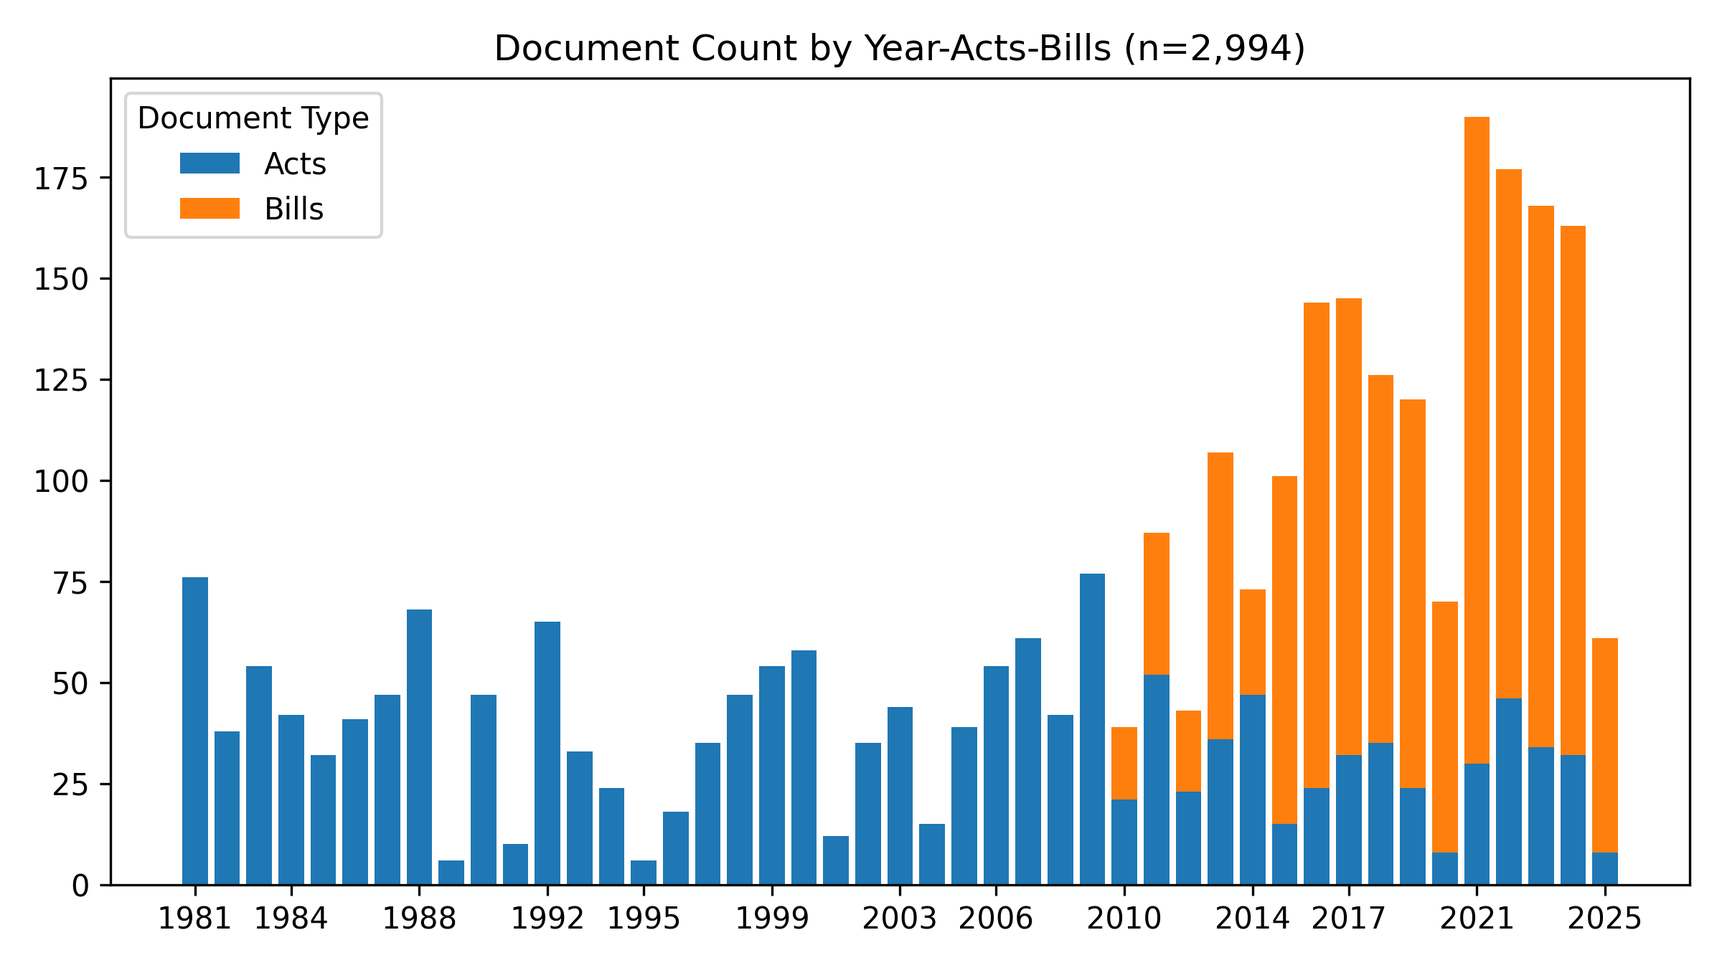
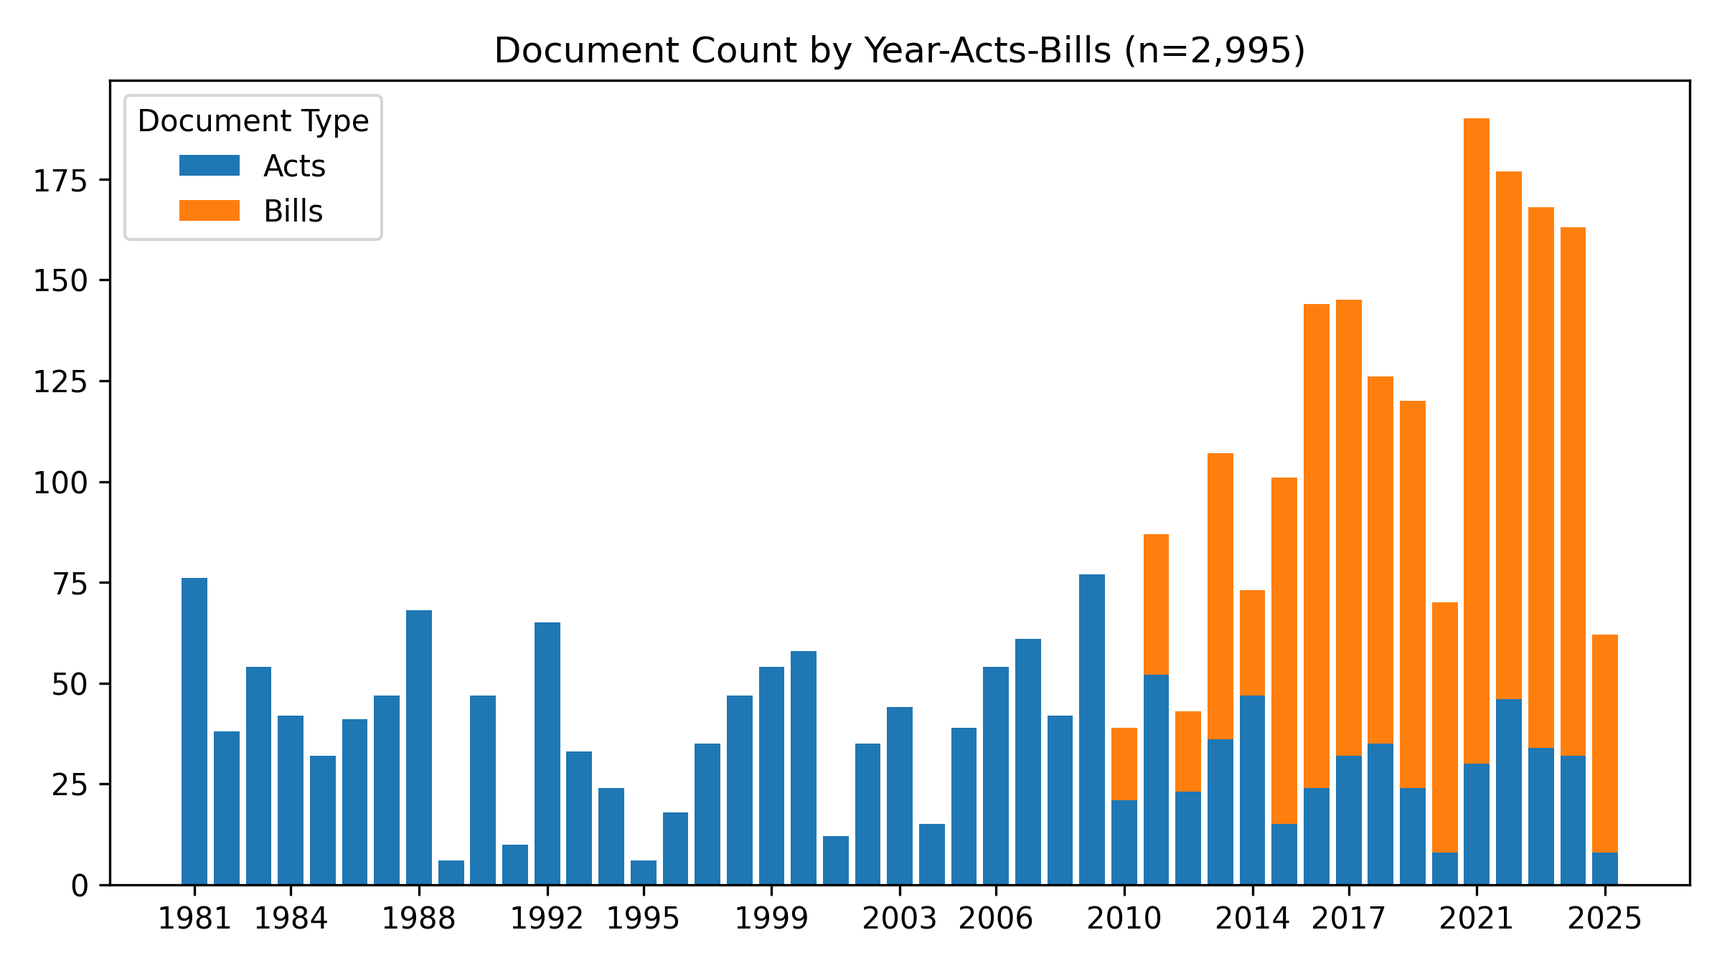
🤖 [pdf_downloader.yml] 2025-07-08-1327

diff --git a/README.md b/README.md
@@ -1,8 +1,8 @@
 # Legal Documents - #SriLanka 🇱🇰
 
-*Last Updated **2025-07-08 18:31:56**.*
+*Last Updated **2025-07-08 18:57:03**.*
 
-**43,961** documents (59.2 MB), from 1981-01-22 to 2025-07-07.
+**43,962** documents (40.9 MB), from 1981-01-22 to 2025-07-08.
 
 A collection of 📢 Gazettes, 🚨 Extraordinary Gazettes, 🏛 Acts, ✍ Bills and more,  from [documents.gov.lk](https://documents.gov.lk).
 
@@ -20,8 +20,8 @@ A collection of 📢 Gazettes, 🚨 Extraordinary Gazettes, 🏛 Acts, ✍
 
 | doc_type | n | min_date | max_date |
 | :-- | --: | :-- | :-- |
+| ✍ Bills | 1,348 | 2010-05-10 | 2025-07-08 |
 | 🚨 Extraordinary Gazettes | 34,700 | 2010-01-01 | 2025-07-07 |
-| ✍ Bills | 1,347 | 2010-05-10 | 2025-07-04 |
 | 📢 Gazettes | 6,267 | 2006-03-03 | 2025-07-04 |
 | 🏛 Acts | 1,647 | 1981-01-22 | 2025-06-20 |
 
@@ -39,6 +39,7 @@ A collection of 📢 Gazettes, 🚨 Extraordinary Gazettes, 🏛 Acts, ✍
 
 | type | date | title | sources | doc_num |
 | :-- | :-- | :-- | :-- | :-- |
+| ✍ | 2025-07-08 | Penal Code Amendment GS | [`සි`](https://documents.gov.lk/view/bills/2025/7/618-2025_S.pdf) [`த`](https://documents.gov.lk/view/bills/2025/7/618-2025_T.pdf) [`E`](https://documents.gov.lk/view/bills/2025/7/618-2025_E.pdf) | [618/2025](data/bills/2025/618-2025) |
 | 🚨 | 2025-07-07 | Presidential Secretariat Appointed Secretary to the Ministry Finance Planning and Economic Development | [`සි`](https://documents.gov.lk/view/extra-gazettes/2025/7/2444-09_S.pdf) [`E`](https://documents.gov.lk/view/extra-gazettes/2025/7/2444-09_E.pdf) | [2444/09](data/extra-gazettes/2025/2444-09) |
 | 🚨 | 2025-07-07 | Elections Commission Declare Elected as a Member of Parliament under Article 99A of the Constitution Elected Mr UDN Jayaweera as a Member of the Tenth Parliament | [`සි`](https://documents.gov.lk/view/extra-gazettes/2025/7/2444-07_S.pdf) | [2444/07](data/extra-gazettes/2025/2444-07) |
 | 🚨 | 2025-07-07 | Election Commission Local Authorities Elections Ordinance Chapter 262 Notice under Section 66 2 Elected to the Members of Akmeemana PS and Bandarawela PS | [`සි`](https://documents.gov.lk/view/extra-gazettes/2025/7/2444-02_S.pdf) [`த`](https://documents.gov.lk/view/extra-gazettes/2025/7/2444-02_T.pdf) [`E`](https://documents.gov.lk/view/extra-gazettes/2025/7/2444-02_E.pdf) | [2444/02](data/extra-gazettes/2025/2444-02) |
@@ -68,45 +69,44 @@ A collection of 📢 Gazettes, 🚨 Extraordinary Gazettes, 🏛 Acts, ✍
 | 🚨 | 2025-06-30 | Ministry of Health Food Act No26 of 1980 Amended the Food Colour Coding for Suger Levels liquid Regulation 2022 | [`සි`](https://documents.gov.lk/view/extra-gazettes/2025/6/2443-08_S.pdf) [`த`](https://documents.gov.lk/view/extra-gazettes/2025/6/2443-08_T.pdf) [`E`](https://documents.gov.lk/view/extra-gazettes/2025/6/2443-08_E.pdf) | [2443/08](data/extra-gazettes/2025/2443-08) |
 | 🚨 | 2025-06-30 | Ministry of Health Food Act No26 of 1980 Amended the Food Frans Fat Regulation 2022 | [`සි`](https://documents.gov.lk/view/extra-gazettes/2025/6/2443-07_S.pdf) [`த`](https://documents.gov.lk/view/extra-gazettes/2025/6/2443-07_T.pdf) [`E`](https://documents.gov.lk/view/extra-gazettes/2025/6/2443-07_E.pdf) | [2443/07](data/extra-gazettes/2025/2443-07) |
 | 🚨 | 2025-06-30 | Ministry of Health Food Act No26 of 1980 Amended the Food labelling and Advertising Regulations 2023 | [`සි`](https://documents.gov.lk/view/extra-gazettes/2025/6/2443-06_S.pdf) [`த`](https://documents.gov.lk/view/extra-gazettes/2025/6/2443-06_T.pdf) [`E`](https://documents.gov.lk/view/extra-gazettes/2025/6/2443-06_E.pdf) | [2443/06](data/extra-gazettes/2025/2443-06) |
-| 🚨 | 2025-06-30 | Sri Lanka Customs Rate Of Exchange with Effect from 30062025 to 06072025 | [`සි`](https://documents.gov.lk/view/extra-gazettes/2025/6/2443-01_S.pdf) [`த`](https://documents.gov.lk/view/extra-gazettes/2025/6/2443-01_T.pdf) [`E`](https://documents.gov.lk/view/extra-gazettes/2025/6/2443-01_E.pdf) | [2443/01](data/extra-gazettes/2025/2443-01) |
 
 ## All Documents
 
 | type | date | title | sources | doc_num |
 | :-- | :-- | :-- | :-- | :-- |
-| 🚨 | 2025-07-07 | Presidential Secretariat Appointed Secretary to the Ministry Finance Planning and Economic Development | [`සි`](https://documents.gov.lk/view/extra-gazettes/2025/7/2444-09_S.pdf) [`E`](https://documents.gov.lk/view/extra-gazettes/2025/7/2444-09_E.pdf) | [2444/09](data/extra-gazettes/2025/2444-09) |
-| 🚨 | 2025-01-16 | Land Title Settlement Department Udappu Mundel DS Division Puttalama District Cad Map No 410228 240995 | [`සි`](https://documents.gov.lk/view/extra-gazettes/2025/1/2419-16_S.pdf) [`த`](https://documents.gov.lk/view/extra-gazettes/2025/1/2419-16_T.pdf) [`E`](https://documents.gov.lk/view/extra-gazettes/2025/1/2419-16_E.pdf) | [2419/16](data/extra-gazettes/2025/2419-16) |
-| ✍ | 2024-08-02 | Public Assets Management GS | [`සි`](https://documents.gov.lk/view/bills/2024/8/539-2004_S.pdf) [`த`](https://documents.gov.lk/view/bills/2024/8/539-2004_T.pdf) [`E`](https://documents.gov.lk/view/bills/2024/8/539-2004_E.pdf) | [539/2004](data/bills/2024/539-2004) |
-| 🚨 | 2024-02-06 | Presidential Secretariat Hon Keheliya Rambukwella Minister of Environment has Resigned Office of the Minister of Environment with Effect from 03022024 | [`සි`](https://documents.gov.lk/view/extra-gazettes/2024/2/2370-06_S.pdf) [`த`](https://documents.gov.lk/view/extra-gazettes/2024/2/2370-06_T.pdf) [`E`](https://documents.gov.lk/view/extra-gazettes/2024/2/2370-06_E.pdf) | [2370/06](data/extra-gazettes/2024/2370-06) |
-| 🚨 | 2023-09-14 | Land Title Settlement Department Ethyala Ganga Ihala Korale DS Division Kandy District Cad Map No 320740 230594 | [`සි`](https://documents.gov.lk/view/extra-gazettes/2023/9/2349-25_S.pdf) [`த`](https://documents.gov.lk/view/extra-gazettes/2023/9/2349-25_T.pdf) [`E`](https://documents.gov.lk/view/extra-gazettes/2023/9/2349-25_E.pdf) | [2349/25](data/extra-gazettes/2023/2349-25) |
-| 🚨 | 2023-04-03 | Land Title Settlement Department Dutugemunu Dehiwala DS Division Colombo District Cad Map No 520802 2355012 | [`සි`](https://documents.gov.lk/view/extra-gazettes/2023/4/2326-08_S.pdf) [`த`](https://documents.gov.lk/view/extra-gazettes/2023/4/2326-08_T.pdf) [`E`](https://documents.gov.lk/view/extra-gazettes/2023/4/2326-08_E.pdf) | [2326/08](data/extra-gazettes/2023/2326-08) |
-| 🚨 | 2022-11-25 | Kalpitiya Pradeshiya Sabha List of the Roads and Throughfares of Kalpitiya Pradeshiya Sabha | [`සි`](https://documents.gov.lk/view/extra-gazettes/2022/11/2307-53_S.pdf) [`த`](https://documents.gov.lk/view/extra-gazettes/2022/11/2307-53_T.pdf) [`E`](https://documents.gov.lk/view/extra-gazettes/2022/11/2307-53_E.pdf) | [2307/53](data/extra-gazettes/2022/2307-53) |
-| 🚨 | 2022-07-14 | Secretariat Office of Prime Minister Amended Extraordinary Gazette No 228141 Dated 27052022 Duties and Functions of the Defence Minister Further Amended 14th 072022 | [`සි`](https://documents.gov.lk/view/extra-gazettes/2022/7/2288-24_S.pdf) [`த`](https://documents.gov.lk/view/extra-gazettes/2022/7/2288-24_T.pdf) [`E`](https://documents.gov.lk/view/extra-gazettes/2022/7/2288-24_E.pdf) | [2288/24](data/extra-gazettes/2022/2288-24) |
-| 🚨 | 2022-02-03 | Election Commission Mr K G D Chandrarathna of the Sri Jayawardanapura Kotte Municipal Council has vacated his office of member of that Municipal Council | [`සි`](https://documents.gov.lk/view/extra-gazettes/2022/2/2265-41_S.pdf) [`த`](https://documents.gov.lk/view/extra-gazettes/2022/2/2265-41_T.pdf) [`E`](https://documents.gov.lk/view/extra-gazettes/2022/2/2265-41_E.pdf) | [2265/41](data/extra-gazettes/2022/2265-41) |
-| 🚨 | 2021-09-10 | Department of Local Government Northern Province Notify to Convene the meeting again for the election of Chairman of Valvettithurai Urban Council in Norther Province On 22092021 at 1000 am at the Hall of the Valvettithurai Urban Council | [`සි`](https://documents.gov.lk/view/extra-gazettes/2021/9/2244-33_S.pdf) [`த`](https://documents.gov.lk/view/extra-gazettes/2021/9/2244-33_T.pdf) [`E`](https://documents.gov.lk/view/extra-gazettes/2021/9/2244-33_E.pdf) | [2244/33](data/extra-gazettes/2021/2244-33) |
-| 🚨 | 2021-03-09 | Land Title Settlement Department Kimbissa Dambulla DS Division Matale District Cad Map No 310060 | [`සි`](https://documents.gov.lk/view/extra-gazettes/2021/3/2218-45_S.pdf) [`த`](https://documents.gov.lk/view/extra-gazettes/2021/3/2218-45_T.pdf) [`E`](https://documents.gov.lk/view/extra-gazettes/2021/3/2218-45_E.pdf) | [2218/45](data/extra-gazettes/2021/2218-45) |
+| ✍ | 2025-07-08 | Penal Code Amendment GS | [`සි`](https://documents.gov.lk/view/bills/2025/7/618-2025_S.pdf) [`த`](https://documents.gov.lk/view/bills/2025/7/618-2025_T.pdf) [`E`](https://documents.gov.lk/view/bills/2025/7/618-2025_E.pdf) | [618/2025](data/bills/2025/618-2025) |
+| 🚨 | 2025-01-16 | Land Title Settlement Department Paluwewa Hingurakgoda DS Division Polonnaruwa District Cad Map No 120017 240452 | [`සි`](https://documents.gov.lk/view/extra-gazettes/2025/1/2419-17_S.pdf) [`த`](https://documents.gov.lk/view/extra-gazettes/2025/1/2419-17_T.pdf) [`E`](https://documents.gov.lk/view/extra-gazettes/2025/1/2419-17_E.pdf) | [2419/17](data/extra-gazettes/2025/2419-17) |
+| 🚨 | 2024-08-03 | Land Title Settlement Department Mallawapitiya Mallawapitiya DSDivision Kurunegala District Cad Map No 420206 | [`සි`](https://documents.gov.lk/view/extra-gazettes/2024/8/2395-48_S.pdf) [`த`](https://documents.gov.lk/view/extra-gazettes/2024/8/2395-48_T.pdf) [`E`](https://documents.gov.lk/view/extra-gazettes/2024/8/2395-48_E.pdf) | [2395/48](data/extra-gazettes/2024/2395-48) |
+| 🚨 | 2024-02-06 | Presidential Secretariat Appointed Hon Shashindra Rajapaksa Member of Parliament as the State Minister of Irrigation and Water Supply from 31012024 Hon Shashindra Rajapaksa State Minister of Irrigation has Resigned Office of the State Minister with Effe... | [`සි`](https://documents.gov.lk/view/extra-gazettes/2024/2/2370-07_S.pdf) [`த`](https://documents.gov.lk/view/extra-gazettes/2024/2/2370-07_T.pdf) [`E`](https://documents.gov.lk/view/extra-gazettes/2024/2/2370-07_E.pdf) | [2370/07](data/extra-gazettes/2024/2370-07) |
+| 🚨 | 2023-09-14 | Land Title Settlement Department Udaaludeniya Udunuwara DS Division Kandy District Cad Map No 320237 230505 | [`සි`](https://documents.gov.lk/view/extra-gazettes/2023/9/2349-26_S.pdf) [`த`](https://documents.gov.lk/view/extra-gazettes/2023/9/2349-26_T.pdf) [`E`](https://documents.gov.lk/view/extra-gazettes/2023/9/2349-26_E.pdf) | [2349/26](data/extra-gazettes/2023/2349-26) |
+| 🚨 | 2023-04-03 | Land Acquisition Delkanda Horana DS Division Kalutara District | [`සි`](https://documents.gov.lk/view/extra-gazettes/2023/4/2326-09_S.pdf) [`த`](https://documents.gov.lk/view/extra-gazettes/2023/4/2326-09_T.pdf) [`E`](https://documents.gov.lk/view/extra-gazettes/2023/4/2326-09_E.pdf) | [2326/09](data/extra-gazettes/2023/2326-09) |
+| 🚨 | 2022-11-25 | Land Title Settlement Department Naththandiya Naththandiya DS Division Puttalam District Cad Map No 410443 | [`සි`](https://documents.gov.lk/view/extra-gazettes/2022/11/2307-54_S.pdf) [`த`](https://documents.gov.lk/view/extra-gazettes/2022/11/2307-54_T.pdf) [`E`](https://documents.gov.lk/view/extra-gazettes/2022/11/2307-54_E.pdf) | [2307/54](data/extra-gazettes/2022/2307-54) |
+| 📢 | 2022-07-15 | I General | [`සි`](https://documents.gov.lk/view/gazettes/2022/7/2022-07-15(I-I)S.pdf) [`த`](https://documents.gov.lk/view/gazettes/2022/7/2022-07-15(I-I)T.pdf) [`E`](https://documents.gov.lk/view/gazettes/2022/7/2022-07-15(I-I)E.pdf) | [2022-07-15-i-general](data/gazettes/2022/2022-07-15-i-general) |
+| 🚨 | 2022-02-03 | Land Acquisition Thalamporawa Angunakolapelessa DS Division Hambantota District | [`සි`](https://documents.gov.lk/view/extra-gazettes/2022/2/2265-42_S.pdf) [`த`](https://documents.gov.lk/view/extra-gazettes/2022/2/2265-42_T.pdf) [`E`](https://documents.gov.lk/view/extra-gazettes/2022/2/2265-42_E.pdf) | [2265/42](data/extra-gazettes/2022/2265-42) |
+| 🚨 | 2021-09-10 | Department of Local Government Northern Province elected New Vice Chairman in the meeting Convened On 07092021 at 1000 am at Maritimepattu Pradeshiya Sabha | [`සි`](https://documents.gov.lk/view/extra-gazettes/2021/9/2244-34_S.pdf) [`த`](https://documents.gov.lk/view/extra-gazettes/2021/9/2244-34_T.pdf) [`E`](https://documents.gov.lk/view/extra-gazettes/2021/9/2244-34_E.pdf) | [2244/34](data/extra-gazettes/2021/2244-34) |
+| 🚨 | 2021-03-09 | Land Title Settlement Department Makuluwa Four Gravets DS Division Galle District Cad Map No 810013 and others | [`සි`](https://documents.gov.lk/view/extra-gazettes/2021/3/2218-46_S.pdf) [`த`](https://documents.gov.lk/view/extra-gazettes/2021/3/2218-46_T.pdf) [`E`](https://documents.gov.lk/view/extra-gazettes/2021/3/2218-46_E.pdf) | [2218/46](data/extra-gazettes/2021/2218-46) |
 | 🚨 | 2020-09-11 | Land Title Settlement Department Maligathanna DS Division Kandy Katawath Hathara and gangawata Koralaya Cad Map No 320290 and others | [`සි`](https://documents.gov.lk/view/extra-gazettes/2020/9/2192-65_S.pdf) [`த`](https://documents.gov.lk/view/extra-gazettes/2020/9/2192-65_T.pdf) [`E`](https://documents.gov.lk/view/extra-gazettes/2020/9/2192-65_E.pdf) | [2192/65](data/extra-gazettes/2020/2192-65) |
-| 🚨 | 2020-01-23 | Election Commission Revision of Registers of Electors 2019 Kurunegala District | [`සි`](https://documents.gov.lk/view/extra-gazettes/2020/1/2159-29_S.pdf) [`த`](https://documents.gov.lk/view/extra-gazettes/2020/1/2159-29_T.pdf) | [2159/29](data/extra-gazettes/2020/2159-29) |
-| 🚨 | 2019-08-23 | Ministry of Higher Education Order to appoint Prof K Kandasamy to be the Competent Authority to the University of Jaffna | [`සි`](https://documents.gov.lk/view/extra-gazettes/2019/8/2137-94_S.pdf) [`த`](https://documents.gov.lk/view/extra-gazettes/2019/8/2137-94_T.pdf) [`E`](https://documents.gov.lk/view/extra-gazettes/2019/8/2137-94_E.pdf) | [2137/94](data/extra-gazettes/2019/2137-94) |
+| 🚨 | 2020-01-23 | Election Commission Revision of Registers of Electors 2019 Puttalam District | [`සි`](https://documents.gov.lk/view/extra-gazettes/2020/1/2159-30_S.pdf) [`த`](https://documents.gov.lk/view/extra-gazettes/2020/1/2159-30_T.pdf) | [2159/30](data/extra-gazettes/2020/2159-30) |
+| 🚨 | 2019-08-23 | Ministry of Higher Education Order to appoint Major Ganeral S K Thirunavukarasu to be the Competent Authority to the Institute of Technology University of Moratuwa | [`සි`](https://documents.gov.lk/view/extra-gazettes/2019/8/2137-95_S.pdf) [`த`](https://documents.gov.lk/view/extra-gazettes/2019/8/2137-95_T.pdf) [`E`](https://documents.gov.lk/view/extra-gazettes/2019/8/2137-95_E.pdf) | [2137/95](data/extra-gazettes/2019/2137-95) |
 | 🚨 | 2019-03-26 | Land Title Settlement Department Uyandana Mallawapitiya DS Division Kurunegala District Cad Map No 420222 | [`සි`](https://documents.gov.lk/view/extra-gazettes/2019/3/2116-18_S.pdf) [`த`](https://documents.gov.lk/view/extra-gazettes/2019/3/2116-18_T.pdf) [`E`](https://documents.gov.lk/view/extra-gazettes/2019/3/2116-18_E.pdf) | [2116/18](data/extra-gazettes/2019/2116-18) |
-| 🚨 | 2018-10-03 | Ministry of Labour Trade Union Relations Notice of Industrial Disputes between A D Jayasinghe vs Ceylon Fishery Harbours Corporation Inter Company Employees Union vs Haddabima Authority of Sri Lankaand V G Kelum vs Central Cultural Fund | [`සි`](https://documents.gov.lk/view/extra-gazettes/2018/10/2091-48_S.pdf) [`E`](https://documents.gov.lk/view/extra-gazettes/2018/10/2091-48_E.pdf) | [2091/48](data/extra-gazettes/2018/2091-48) |
-| 🚨 | 2018-05-11 | Land Title Settlement Department Mahi Alla North Mallawapitiya DS Division Kurunegala District Cad Map No 420202 | [`සි`](https://documents.gov.lk/view/extra-gazettes/2018/5/2070-49_S.pdf) [`த`](https://documents.gov.lk/view/extra-gazettes/2018/5/2070-49_T.pdf) [`E`](https://documents.gov.lk/view/extra-gazettes/2018/5/2070-49_E.pdf) | [2070/49](data/extra-gazettes/2018/2070-49) |
+| 🚨 | 2018-10-03 | Ministry of Labour Trade Union Relations Notice of Industrial Disputes between Inter Company Employees Union vs Ceylon Holiday Resorts Limited and All Ceylon Commercial and Industrial Workers Union vs Arthur c Clarke Institute for Modern Technologies | [`සි`](https://documents.gov.lk/view/extra-gazettes/2018/10/2091-49_S.pdf) [`E`](https://documents.gov.lk/view/extra-gazettes/2018/10/2091-49_E.pdf) | [2091/49](data/extra-gazettes/2018/2091-49) |
+| 🚨 | 2018-05-11 | Land Title Settlement Department Wewala Kesbewa DS Division Colombo District Cad Map No 521521 | [`සි`](https://documents.gov.lk/view/extra-gazettes/2018/5/2070-50_S.pdf) [`த`](https://documents.gov.lk/view/extra-gazettes/2018/5/2070-50_T.pdf) [`E`](https://documents.gov.lk/view/extra-gazettes/2018/5/2070-50_E.pdf) | [2070/50](data/extra-gazettes/2018/2070-50) |
 | 🚨 | 2017-11-22 | Land Title Settlement Department Keselwattha Panadura DS Division Kalutara District Cad Map No 530022 | [`සි`](https://documents.gov.lk/view/extra-gazettes/2017/11/2046-36_S.pdf) [`த`](https://documents.gov.lk/view/extra-gazettes/2017/11/2046-36_T.pdf) [`E`](https://documents.gov.lk/view/extra-gazettes/2017/11/2046-36_E.pdf) | [2046/36](data/extra-gazettes/2017/2046-36) |
-| 🚨 | 2017-06-02 | Land Title Settlement Department Gambirisgaswewa Thalawa DS Division Anuradhapura District | [`සි`](https://documents.gov.lk/view/extra-gazettes/2017/6/2021-40_S.pdf) [`த`](https://documents.gov.lk/view/extra-gazettes/2017/6/2021-40_T.pdf) [`E`](https://documents.gov.lk/view/extra-gazettes/2017/6/2021-40_E.pdf) | [2021/40](data/extra-gazettes/2017/2021-40) |
-| 📢 | 2016-12-02 | IIA Advertising | [`සි`](https://documents.gov.lk/view/gazettes/2016/12/2016-12-02(I-IIA)S.pdf) [`த`](https://documents.gov.lk/view/gazettes/2016/12/2016-12-02(I-IIA)T.pdf) [`E`](https://documents.gov.lk/view/gazettes/2016/12/2016-12-02(I-IIA)E.pdf) | [2016-12-02-iia-advertising](data/gazettes/2016/2016-12-02-iia-advertising) |
+| 🚨 | 2017-06-02 | Land Title Settlement Department Walaswewa Galewela DS Division Matale District | [`සි`](https://documents.gov.lk/view/extra-gazettes/2017/6/2021-41_S.pdf) [`த`](https://documents.gov.lk/view/extra-gazettes/2017/6/2021-41_T.pdf) [`E`](https://documents.gov.lk/view/extra-gazettes/2017/6/2021-41_E.pdf) | [2021/41](data/extra-gazettes/2017/2021-41) |
+| 📢 | 2016-12-02 | IIB Advertising | [`සි`](https://documents.gov.lk/view/gazettes/2016/12/2016-12-02(I-IIB)S.pdf) [`த`](https://documents.gov.lk/view/gazettes/2016/12/2016-12-02(I-IIB)T.pdf) [`E`](https://documents.gov.lk/view/gazettes/2016/12/2016-12-02(I-IIB)E.pdf) | [2016-12-02-iib-advertising](data/gazettes/2016/2016-12-02-iib-advertising) |
 | 🚨 | 2016-06-28 | Land Title Settlement Department Potawa Ridimaliyadda DS Division Badulla District Cad Map No710049 | [`සි`](https://documents.gov.lk/view/extra-gazettes/2016/6/1973-17_S.pdf) [`த`](https://documents.gov.lk/view/extra-gazettes/2016/6/1973-17_T.pdf) [`E`](https://documents.gov.lk/view/extra-gazettes/2016/6/1973-17_E.pdf) | [1973/17](data/extra-gazettes/2016/1973-17) |
-| 🚨 | 2015-12-22 | Land Title Settlement Department Ginipendegama Wariyapola DS Division Kurunegala District Cad Map No 420911 | [`සි`](https://documents.gov.lk/view/extra-gazettes/2015/12/1946-23_S.pdf) [`த`](https://documents.gov.lk/view/extra-gazettes/2015/12/1946-23_T.pdf) [`E`](https://documents.gov.lk/view/extra-gazettes/2015/12/1946-23_E.pdf) | [1946/23](data/extra-gazettes/2015/1946-23) |
+| 🚨 | 2015-12-22 | Land Title Settlement Department Mabodala Minuwangoda DS Division Gampaha District Cad Map No 510401 | [`සි`](https://documents.gov.lk/view/extra-gazettes/2015/12/1946-24_S.pdf) [`த`](https://documents.gov.lk/view/extra-gazettes/2015/12/1946-24_T.pdf) [`E`](https://documents.gov.lk/view/extra-gazettes/2015/12/1946-24_E.pdf) | [1946/24](data/extra-gazettes/2015/1946-24) |
 | 🚨 | 2015-06-24 | Land Title Settlement Department Suwarapola Kesbewa DS Division Colombo District Cad Map No 521201 | [`සි`](https://documents.gov.lk/view/extra-gazettes/2015/6/1920-15_S.pdf) [`த`](https://documents.gov.lk/view/extra-gazettes/2015/6/1920-15_T.pdf) [`E`](https://documents.gov.lk/view/extra-gazettes/2015/6/1920-15_E.pdf) | [1920/15](data/extra-gazettes/2015/1920-15) |
 | 🚨 | 2014-12-09 | Land Acquisition Weralupa Ratnapura DS Division Ratnapura District Land Redemption Redemption Notice for Irakkakandi Kuchchaweli DS Division Trincomalee District | [`සි`](https://documents.gov.lk/view/extra-gazettes/2014/12/1892-19_S.pdf) | [1892/19](data/extra-gazettes/2014/1892-19) |
-| 📢 | 2014-06-06 | I General | [`සි`](https://documents.gov.lk/view/gazettes/2014/6/2014-06-06(I-I)S.pdf) [`த`](https://documents.gov.lk/view/gazettes/2014/6/2014-06-06(I-I)T.pdf) [`E`](https://documents.gov.lk/view/gazettes/2014/6/2014-06-06(I-I)E.pdf) | [2014-06-06-i-general](data/gazettes/2014/2014-06-06-i-general) |
+| 📢 | 2014-06-06 | IIA Advertising | [`සි`](https://documents.gov.lk/view/gazettes/2014/6/2014-06-06(I-IIA)S.pdf) [`த`](https://documents.gov.lk/view/gazettes/2014/6/2014-06-06(I-IIA)T.pdf) [`E`](https://documents.gov.lk/view/gazettes/2014/6/2014-06-06(I-IIA)E.pdf) | [2014-06-06-iia-advertising](data/gazettes/2014/2014-06-06-iia-advertising) |
 | 🚨 | 2013-11-28 | Land Title Settlement Dept Walgama North Matara DS Division Matara District Cad Map No 820013 | [`සි`](https://documents.gov.lk/view/extra-gazettes/2013/11/1838-45_S.pdf) [`த`](https://documents.gov.lk/view/extra-gazettes/2013/11/1838-45_T.pdf) [`E`](https://documents.gov.lk/view/extra-gazettes/2013/11/1838-45_E.pdf) | [1838/45](data/extra-gazettes/2013/1838-45) |
 | 🚨 | 2013-04-09 | Ministry of Public Administration Home Affairs Full Moon Poya Days for the year 2014 | [`සි`](https://documents.gov.lk/view/extra-gazettes/2013/4/1805-06_S.pdf) [`த`](https://documents.gov.lk/view/extra-gazettes/2013/4/1805-06_T.pdf) [`E`](https://documents.gov.lk/view/extra-gazettes/2013/4/1805-06_E.pdf) | [1805/06](data/extra-gazettes/2013/1805-06) |
-| 📢 | 2012-06-29 | I General | [`සි`](https://documents.gov.lk/view/gazettes/2012/6/2012-06-29(I-I)S.pdf) [`த`](https://documents.gov.lk/view/gazettes/2012/6/2012-06-29(I-I)T.pdf) [`E`](https://documents.gov.lk/view/gazettes/2012/6/2012-06-29(I-I)E.pdf) | [2012-06-29-i-general](data/gazettes/2012/2012-06-29-i-general) |
+| 📢 | 2012-06-29 | IIA Advertising | [`සි`](https://documents.gov.lk/view/gazettes/2012/6/2012-06-29(I-IIA)S.pdf) [`த`](https://documents.gov.lk/view/gazettes/2012/6/2012-06-29(I-IIA)T.pdf) [`E`](https://documents.gov.lk/view/gazettes/2012/6/2012-06-29(I-IIA)E.pdf) | [2012-06-29-iia-advertising](data/gazettes/2012/2012-06-29-iia-advertising) |
 | 🚨 | 2011-03-04 | Land Acquisition Viharagama Bingiriya DS Division Kurunegala District | [`සි`](https://documents.gov.lk/view/extra-gazettes/2011/3/1695-26_S.pdf) [`த`](https://documents.gov.lk/view/extra-gazettes/2011/3/1695-26_T.pdf) [`E`](https://documents.gov.lk/view/extra-gazettes/2011/3/1695-26_E.pdf) | [1695/26](data/extra-gazettes/2011/1695-26) |
 | 📢 | 2008-09-26 | IIB Advertising | [`සි`](https://documents.gov.lk/view/gazettes/2008/9/2008-09-26(I-IIB)S.pdf) [`த`](https://documents.gov.lk/view/gazettes/2008/9/2008-09-26(I-IIB)T.pdf) [`E`](https://documents.gov.lk/view/gazettes/2008/9/2008-09-26(I-IIB)E.pdf) | [2008-09-26-iib-advertising](data/gazettes/2008/2008-09-26-iib-advertising) |
 | 🏛 | 1981-01-22 | Parliamentary Elections | [`සි`](https://documents.gov.lk/view/acts/1981/1/01-1981_S.pdf) | [01/1981](data/acts/1981/01-1981) |
 
-*(Uniformly Spaced Sample of 30 from 43,961)*
+*(Uniformly Spaced Sample of 30 from 43,962)*
 
 ## Interesting Documents
 
